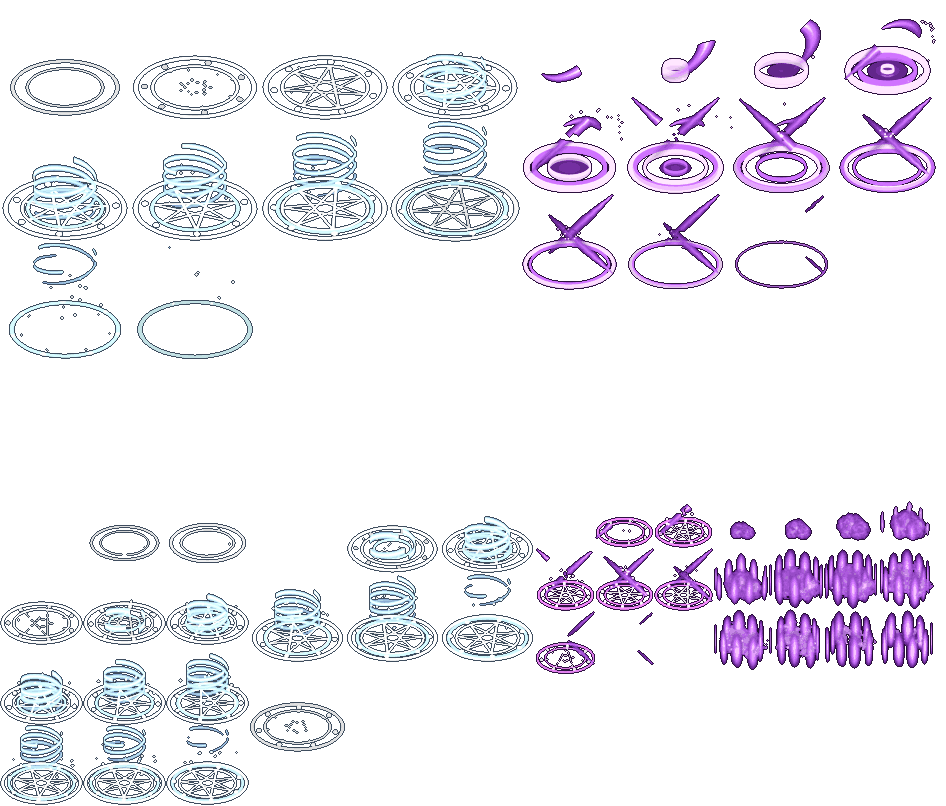
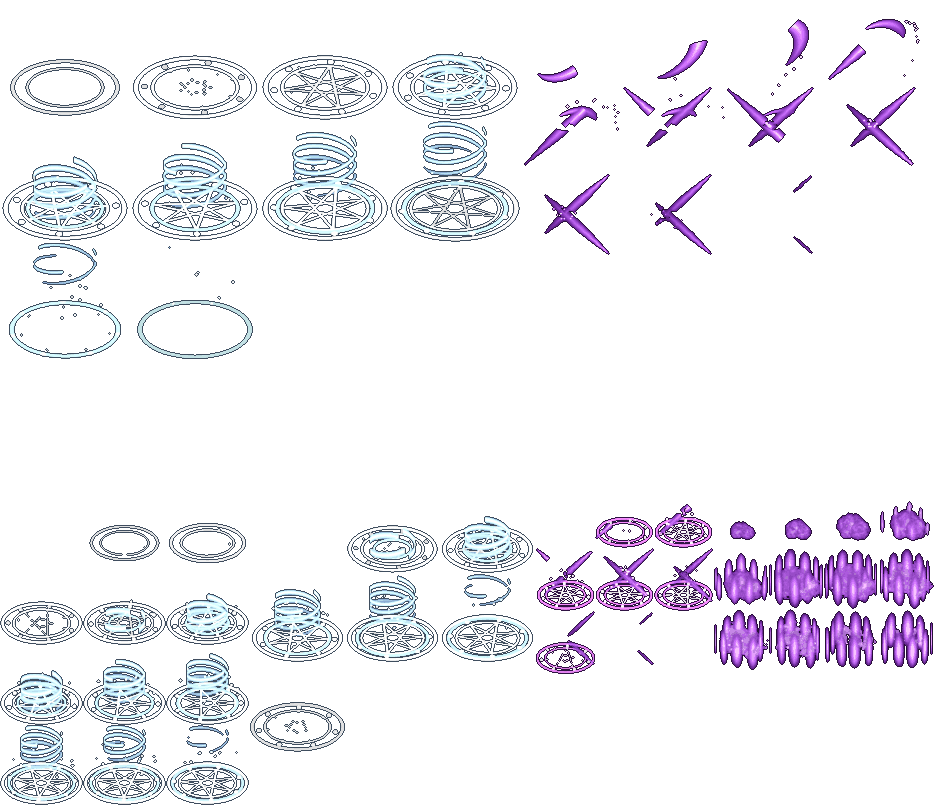
0.553.0: Cuts and marks, a toll that shakes each foe (#615)
* Blender effects: the prototype scenes and the smooth-against-pixelated samples

Claude-Session: https://claude.ai/code/session_01NDLKRsLZur627w2ZaVbFjf

* BLENDER-FX: the pipeline, and the king's 35 spells as Blender-rendered pixel sheets

The owner's call: every battle effect is to be a Blender-rendered, pixelated, fully animated frame sheet, so
everything matches; the lights (heals, holy, lightning) keep a soft glow under their pixels.

- tools/blender-fx: a library of 52 effect scenes in 13 element palettes, recipes (staged ones for long moves),
  render, pixelate (45 px a tile, 14 shared colours, hard alpha with a fixed dither, a quarter-size glow for the
  lights), pack (tight WebP atlases) and a generated manifest; npm run blender-fx makes everything again.
- The renderer plays the sheets through the effects' own paths (bfxOnce, bfxStand, bfxFly): on the tiles
  fxPlace names, thinned over fighters or laid on the ground under them, a held frame with reduced motion, no glow
  and fewer touches on the battery saver. The sim is untouched.
- Every king's spell has its own sheets, each leading with a scene no other spell leads with; they play in place
  of the older painted layers once loaded. 59 effects, 756 frames, 417 KB, listed for offline play.

Claude-Session: https://claude.ai/code/session_01RRJtWnKv3aqtC5Z8HqXpVz

* BLENDER-FX: the king's spells in real fights at 360x780 and 412x915, and with reduced motion
[…]

diff --git a/src/render/blenderFxData.ts b/src/render/blenderFxData.ts
@@ -7,7 +7,7 @@ import type { BfxClip } from './blenderFxRules';
 export const BFX_DENSITY = 45;
 export const BFX_GLOW_SHRINK = 4;
 /** The hard pixel atlases' sizes, then the soft glow atlases' (`px-<n>.webp`, `soft-<n>.webp`). */
-export const BFX_PX: readonly (readonly [number, number])[] = [[2041, 2045], [2030, 750], [1208, 1240], [1076, 1140], [938, 563], [990, 978], [364, 451], [946, 806], [1900, 1768], [1016, 691], [994, 778], [316, 280], [1016, 1019], [837, 717], [913, 1022], [923, 937], [1005, 700], [1176, 1280], [1164, 996], [873, 563], [1008, 1200], [1156, 1128], [979, 716], [1018, 822], [987, 641], [1023, 821], [919, 810], [874, 926], [277, 220], [754, 896], [991, 893], [983, 907], [919, 509], [817, 817], [918, 856], [980, 813], [802, 799], [842, 1009], [991, 950], [689, 569], [1065, 954], [881, 584], [976, 1003], [286, 217], [1023, 809], [605, 505], [987, 993], [286, 196], [977, 957], [781, 906], [451, 430], [781, 941], [802, 644], [1010, 846], [906, 993], [1076, 1048], [980, 738], [935, 994], [824, 496], [1328, 1540], [974, 954], [891, 782], [325, 274], [982, 895], [253, 220], [982, 936], [992, 776], [1280, 1100], [888, 926], [999, 809], [1020, 1011], [813, 223], [1018, 1022], [427, 136], [1024, 1018], [650, 226], [1016, 1015], [373, 145], [1019, 991], [443, 148], [1013, 1020], [358, 213], [1015, 1018], [357, 124], [1003, 1006], [960, 208], [1021, 1023], [424, 145], [1001, 1008], [650, 226], [136, 112]];
+export const BFX_PX: readonly (readonly [number, number])[] = [[2041, 2045], [2030, 750], [1208, 1240], [1076, 1140], [938, 563], [990, 978], [364, 451], [935, 806], [1900, 1768], [1016, 691], [994, 778], [316, 280], [1016, 1019], [837, 717], [913, 1022], [923, 937], [1005, 700], [1176, 1280], [1164, 996], [873, 563], [1008, 1200], [1156, 1128], [979, 716], [1018, 822], [987, 641], [1023, 821], [919, 810], [874, 926], [277, 220], [754, 896], [991, 893], [983, 907], [919, 509], [817, 817], [918, 856], [980, 813], [802, 799], [842, 1009], [991, 950], [689, 569], [1065, 954], [881, 584], [976, 1003], [286, 217], [1023, 809], [605, 505], [987, 993], [286, 196], [977, 957], [781, 906], [451, 430], [781, 941], [802, 644], [1010, 846], [906, 993], [1076, 1048], [980, 738], [935, 994], [824, 496], [1328, 1540], [974, 954], [891, 782], [325, 274], [982, 895], [253, 220], [982, 936], [992, 776], [1280, 1100], [888, 926], [999, 809], [1020, 1011], [813, 223], [1018, 1022], [427, 136], [1024, 1018], [650, 226], [1016, 1015], [373, 145], [1019, 991], [443, 148], [1013, 1020], [358, 213], [1015, 1018], [357, 124], [1003, 1006], [960, 208], [1021, 1023], [424, 145], [1001, 1008], [650, 226], [136, 112]];
 export const BFX_SOFT: readonly (readonly [number, number])[] = [[2045, 1439]];
 /** The pixel atlases every fight may need (the spells, the ground loops): loaded up front. The rest are loaded when a fight needs them. */
 export const BFX_CORE: readonly number[] = [0, 1];
@@ -349,7 +349,7 @@ export const BFX_CLIPS: Readonly<Record<string, BfxClip>> = {
   'ult-kraken-strike': {"a": 30, "x": 0, "y": 0, "w": 139, "h": 153, "n": 13, "cols": 4, "ax": 69.0, "ay": 117.7, "ms": 1300, "loop": false, "hold": 6, "layer": "over", "el": "water", "cuts": [[0, 8], [3, 12]], "sc": ["whirlpool", "geyser"], "at": "self"},
   'ult-kraken-windup': {"a": 30, "x": 0, "y": 613, "w": 91, "h": 93, "n": 12, "cols": 4, "ax": 45.5, "ay": 69.6, "ms": 1900, "loop": false, "hold": 11, "layer": "over", "el": "water", "cuts": [[0, 11], [4, 11]], "sc": ["whirlpool", "geyser"]},
   'ult-kunoichi-aftermath': {"a": 7, "x": 536, "y": 485, "w": 59, "h": 63, "n": 9, "cols": 3, "ax": 29.5, "ay": 48.0, "ms": 1600, "loop": false, "hold": 4, "layer": "over", "el": "shadow", "cuts": [[0, 7], [1, 8]], "sc": ["sigil", "cross"]},
-  'ult-kunoichi-strike': {"a": 7, "x": 521, "y": 0, "w": 106, "h": 97, "n": 13, "cols": 4, "ax": 48.5, "ay": 71.4, "ms": 1300, "loop": false, "hold": 5, "layer": "over", "el": "shadow", "cuts": [[0, 8], [3, 12], [1, 11]], "sc": ["arc", "cross", "ring"], "at": "each"},
+  'ult-kunoichi-strike': {"a": 7, "x": 521, "y": 0, "w": 102, "h": 87, "n": 13, "cols": 4, "ax": 44.5, "ay": 71.4, "ms": 1300, "loop": false, "hold": 6, "layer": "over", "el": "shadow", "cuts": [[0, 8], [3, 12]], "sc": ["arc", "cross"], "at": "each"},
   'ult-kunoichi-windup': {"a": 7, "x": 714, "y": 485, "w": 55, "h": 62, "n": 12, "cols": 4, "ax": 27.5, "ay": 51.6, "ms": 1700, "loop": false, "hold": 6, "layer": "over", "el": "shadow", "cuts": [[0, 11], [2, 11]], "sc": ["smoke", "veil"]},
   'ult-lancer-aftermath': {"a": 13, "x": 569, "y": 0, "w": 89, "h": 92, "n": 9, "cols": 3, "ax": 38.0, "ay": 67.4, "ms": 1500, "loop": false, "hold": 5, "layer": "over", "el": "wind", "cuts": [[0, 7], [1, 8]], "sc": ["trail", "gust"]},
   'ult-lancer-strike': {"a": 12, "x": 0, "y": 0, "w": 183, "h": 201, "n": 13, "cols": 4, "ax": 79.5, "ay": 127.9, "ms": 1300, "loop": false, "hold": 4, "layer": "over", "el": "wind", "cuts": [[0, 8], [3, 12], [1, 11]], "sc": ["trail", "gust", "sparks"]},

diff --git a/src/render/fx.ts b/src/render/fx.ts
@@ -77,7 +77,7 @@ import { AREA_PAINT, SNARE, type AreaPaint, AURA_ALPHA, AURA_ALPHA_OF, AURA_MOTE
 import { SLASH_HOP_MS, type WallKind } from '../sim/toolkit';
 import { loadSpellArt, spellFrames } from './spellArt';
 import { bfxFrames, bfxGlows, loadBlenderFx, warmBfx } from './blenderFxArt';
-import { BFX_FADE_MS, BFX_FLY_FROM, BFX_FLY_MS, BFX_GLOW_ALPHA, BFX_LINE_GLOW, BFX_GLOW_SCALE, BFX_SCALE, BFX_WALL_SPELL, SPELL_LAY, SPELL_STANDS, ULT_BFX, ZONE_BFX, bfxAlpha, bfxCentre, BEAT_OWN, ultPlace, ultSpots, ultLinked, ultLinkClip, ULT_LASTS, lineRun, ULT_LINK_MS, beatBfx, beatLine, BEAT_LINE, type BeatClip, ultBfx, type UltStageName, bfxBox, bfxBudget, bfxClip, bfxFrame, bfxLife, groundBfx, spellBfx, standPhase, type SpellPartName } from './blenderFxRules';
+import { BFX_FADE_MS, BFX_FLY_FROM, BFX_FLY_MS, BFX_GLOW_ALPHA, BFX_LINE_GLOW, BFX_GLOW_SCALE, BFX_SCALE, BFX_WALL_SPELL, SPELL_LAY, SPELL_STANDS, ULT_BFX, ZONE_BFX, bfxAlpha, bfxCentre, BEAT_OWN, ultPlace, ultSpots, ultLinked, ultLinkClip, ULT_LASTS, lineRun, ULT_EXTRA, ULT_EXTRA_AT, touchDelay, ULT_LINK_MS, beatBfx, beatLine, BEAT_LINE, type BeatClip, ultBfx, type UltStageName, bfxBox, bfxBudget, bfxClip, bfxFrame, bfxLife, groundBfx, spellBfx, standPhase, type SpellPartName } from './blenderFxRules';
 import { boostedScale, burstPart, epicEvent, KIT, ultScale, ULT_EPIC } from '../ultEpicRules';
 import { ultWeight } from '../ultStageRules';
 import { SHOWCASES } from '../ultShowRules';
@@ -388,6 +388,8 @@ export class Fx {
       void warmBfx([...kinds].flatMap((kind) => (['windup', 'strike', 'aftermath'] as UltStageName[]).map((stage) => ultBfx(kind, stage, ultWeight(kind)))));
       // (ULT-AUDIT: but the one small clip a healer's light or the Gorgon's gaze runs out in is: it must be there the first time)
       warmBfx([...kinds].filter((kind) => ultLinked(kind) && SHOWCASES[kind]).map((kind) => beatBfx(ultLinkClip(kind), SHOWCASES[kind].el)));
+      // (and the small clips a strike adds: a ring on each foe, foam down a line, spray where the caster lands)
+      warmBfx([...kinds].filter((kind) => ULT_EXTRA[kind] && SHOWCASES[kind]).flatMap((kind) => Object.values(ULT_EXTRA[kind]).map((clip) => beatBfx(clip, SHOWCASES[kind].el))));
       // (the beats of their showcases are not asked for here: each loads the first time it is played, the older parts playing that once,
       // so a fight begins with as little held as it can)
     }
@@ -726,6 +728,9 @@ export class Fx {
       if (place === 'self') {
         // (ULT-AUDIT: an aura, a ward, a transformation, a pull: it plays round the caster, once; its further bursts add nothing there)
         if (caster && size >= 1) this.bfxUlt(kind, 'strike', caster.x, caster.y);
+        // (and each foe it struck is shaken by a small ring as the strike's own ring reaches it: `ULT_EXTRA.touch`)
+        const touch = ULT_EXTRA[kind]?.touch;
+        if (touch && caster && size >= 1) for (const [x, y] of at) this.bfxBeat(touch, el, x, y, { delay: touchDelay(Math.hypot(x - caster.x, y - caster.y)) });
       } else if (place !== 'one') {
         // (ULT-AUDIT: a heal on each friend healed, a mark on each foe marked, a flurry's cut on each foe cut, a wall's slab on each tile
         // it blocks: a strike on every one the ability touched, not one great one in their midst. Where the ability is carried from the
@@ -734,7 +739,15 @@ export class Fx {
         const shown = at.slice(0, settings().saver ? ULT_BFX.SPOTS_SAVER : ULT_BFX.SPOTS);
         if (place === 'line' && caster && size >= 1) {
           // (a breath or a cut down a line runs out from the caster: the nearest spot first, each a little later and larger)
-          for (const r of lineRun(shown, caster.x, caster.y)) this.bfxUlt(kind, 'strike', shown[r.i][0], shown[r.i][1], undefined, r.size, r.delay);
+          const run = lineRun(shown, caster.x, caster.y);
+          // (`ULT_EXTRA`: foam along the ground down the whole line ahead of the strike, and a burst of spray where the caster lands)
+          const extra = ULT_EXTRA[kind];
+          if (extra?.wake && run.length) {
+            const a1 = shown[run[run.length - 1].i];
+            beatLine(caster.x, caster.y, a1[0], a1[1]).forEach(([px, py], i) => this.bfxBeat(extra.wake!, el, px, py, { delay: i * BEAT_LINE.LAG, mult: ULT_EXTRA_AT.WAKE_SIZE }));
+          }
+          if (extra?.land) this.bfxBeat(extra.land, el, caster.x, caster.y, { mult: ULT_EXTRA_AT.LAND_SIZE });
+          for (const r of run) this.bfxUlt(kind, 'strike', shown[r.i][0], shown[r.i][1], undefined, r.size, r.delay);
         } else for (const [x, y] of shown) {
           const far = linked && Math.hypot(x - caster.x, y - caster.y) > 8;
           if (far) beatLine(caster.x, caster.y, x, y).forEach(([px, py], i) => this.bfxBeat(ultLinkClip(kind), el, px, py, { delay: i * BEAT_LINE.LAG }));

diff --git a/test/ult-audit.test.ts b/test/ult-audit.test.ts
@@ -9,7 +9,7 @@ import '../src/sim/battle';
 import { AURA_MOTES } from '../src/render/movePaints';
 import { auraLook } from '../src/render/toolkitLooks';
 import { BFX_CLIPS } from '../src/render/blenderFxData';
-import { BEAT_OWN, ULT_LASTS, ULT_LINE, ULT_LINK_MS, beatBfx, lineRun, ultLinkClip, ultLinked, ultPlace, ultSpots } from '../src/render/blenderFxRules';
+import { BEAT_OWN, ULT_EXTRA, ULT_EXTRA_AT, ULT_LASTS, ULT_LINE, ULT_LINK_MS, beatBfx, lineRun, touchDelay, ultLinkClip, ultLinked, ultPlace, ultSpots } from '../src/render/blenderFxRules';
 import { SHOWCASES } from '../src/ultShowRules';
 
 test('Spirit Guardians shows its guardians: spirits a fighter tall circling the Cleric for as long as the aura lasts', () => {
@@ -129,7 +129,8 @@ test('Vael\'s totality lasts: a black sun hangs over him for its eight seconds, 
   assert.equal(ultPlace('seaReaver'), 'line');
   for (const c of Object.values(BFX_CLIPS)) for (const sc of c.sc ?? []) assert.ok(!['angel', 'wave'].includes(sc), sc);
   for (const kind of ['ilyra', 'seraph', 'samurai']) assert.ok(!BFX_CLIPS[`ult-${kind}-strike`].sc!.includes('dome'), kind);
-  assert.deepEqual(BFX_CLIPS['ult-kunoichi-strike'].sc, ['arc', 'cross', 'ring']);
+  // (one cut on each foe and nothing under it: a large ring lay under each cut and made her marks a mass; the director's order)
+  assert.deepEqual(BFX_CLIPS['ult-kunoichi-strike'].sc, ['arc', 'cross']);
   assert.ok(ULT_LINK_MS >= 100 && ULT_LINK_MS <= 400);
   // (what the abilities are: beasts bursting out where each is called, stone creeping over each foe, slabs along the wall's tiles, shields)
   assert.deepEqual(BFX_CLIPS['ult-beastmaster-strike'].sc, ['beast', 'trail']);
@@ -176,5 +177,21 @@ test('a strike along a line runs out from its caster: nearest first, each later 
   assert.equal(ultPlace('dragoon'), 'line');
   assert.equal(ultPlace('dreadPirate'), 'one');
   assert.deepEqual(BFX_CLIPS['ult-dreadPirate-strike'].sc, ['broadside', 'crack']);
-  assert.match(readFileSync('src/render/fx.ts', 'utf8'), /for \(const r of lineRun\(shown, caster\.x, caster\.y\)\)/);
+  assert.match(readFileSync('src/render/fx.ts', 'utf8'), /const run = lineRun\(shown, caster\.x, caster\.y\);/);
+});
+
+test('what a strike adds beyond its clip: a ring on each foe as the Bell Warden\'s toll reaches it, foam down the Sea Reaver\'s line and spray where he lands', () => {
+  assert.deepEqual(ULT_EXTRA.bellWarden, { touch: 'ring' });
+  assert.deepEqual(ULT_EXTRA.seaReaver, { wake: 'dust', land: 'puff' });
+  // (every clip named is one the pipeline has made, in the hero's element)
+  assert.ok(beatBfx('ring', 'dark') && beatBfx('dust', 'ice') && beatBfx('puff', 'ice'));
+  // (the ring reaches a nearer foe sooner: nothing at the caster, `TOUCH_MS` for each hundred px)
+  assert.equal(touchDelay(0), 0);
+  assert.equal(touchDelay(100), ULT_EXTRA_AT.TOUCH_MS);
+  assert.ok(touchDelay(60) < touchDelay(180));
+  assert.equal(touchDelay(-5), 0);
+  const fx = readFileSync('src/render/fx.ts', 'utf8');
+  assert.match(fx, /this\.bfxBeat\(touch, el, x, y, \{ delay: touchDelay\(/);
+  assert.match(fx, /this\.bfxBeat\(extra\.wake!, el, px, py,/);
+  assert.match(fx, /if \(extra\?\.land\) this\.bfxBeat\(extra\.land, el, caster\.x, caster\.y,/);
 });

diff --git a/src/render/blenderFxRules.ts b/src/render/blenderFxRules.ts
@@ -228,6 +228,20 @@ export function lineRun(at: readonly (readonly [number, number])[], cx: number, 
   return order.map(({ i }, n) => ({ i, delay: n * ULT_LINE.LAG, size: Math.min(ULT_LINE.MAX, ULT_LINE.FROM + n * ULT_LINE.GROW) }));
 }
 
+/** ULT-AUDIT: what a strike adds beyond its own clip, as small clips of the showcase's (`beat-*`) in its element:
+ *  - `touch`: on each foe struck by a strike that plays round its caster, as the strike's ring reaches it (`TOUCH_MS` for each
+ *    hundred px it stands from the caster): the Bell Warden's toll shakes each foe with a ring as the hoop of sound passes;
+ *  - `wake`: along the ground from the first spot of a line to its last, a row of them, ahead of the strike on each spot: the foam
+ *    of the Sea Reaver's tide surging down his line;
+ *  - `land`: on the caster as the strike begins, large: the spray where the Sea Reaver lands. */
+export const ULT_EXTRA: Readonly<Record<string, { touch?: BeatClip; wake?: BeatClip; land?: BeatClip }>> = {
+  bellWarden: { touch: 'ring' },
+  seaReaver: { wake: 'dust', land: 'puff' },
+};
+export const ULT_EXTRA_AT = { TOUCH_MS: 220, WAKE_SIZE: 1.5, LAND_SIZE: 1.7 } as const;
+/** When the ring reaches a foe `d` px from the caster (ms after the strike begins). */
+export const touchDelay = (d: number): number => Math.round((Math.max(0, d) / 100) * ULT_EXTRA_AT.TOUCH_MS);
+
 /** ULT-AUDIT: the kinds whose strike is carried to each spot by a line from the caster (a row of the showcase's `link` clips, the strike
  *  landing as the line arrives, `ULT_LINK_MS` later): a healer's light running out to each friend, the Gorgon's gaze to each foe. */
 export const ultLinked = (kind: string): boolean => ultPlace(kind) === 'friends' || kind === 'gorgon' || kind === 'gunslinger';

diff --git a/src/updates.ts b/src/updates.ts
@@ -27,6 +27,12 @@ export interface EarlierUpdates {
 /** Every release since 0.189.0, newest first. */
 export const UPDATES: readonly Update[] = [
   {
+    version: '0.553.0',
+    date: '2026-11-12',
+    title: 'Cuts and marks, a toll that shakes each foe',
+    notes: ['The Kunoichi\'s death marks are seen at last: three cuts with a small sigil under each, no large ring hiding them.', 'The Bell Warden\'s toll shakes each foe with a small ring as its hoop reaches them, the nearer foe first.', 'The Sea Reaver\'s foam runs along the ground down his line and spray bursts where he lands.'],
+  },
+  {
     version: '0.552.0',
     date: '2026-11-12',
     title: 'Meteors, a column of light, a tide',

diff --git a/tools/blender-fx/effects.py b/tools/blender-fx/effects.py
@@ -240,7 +240,7 @@ PLACE = dict(
 # constellation leaves, the halo a nova's healing lands as).
 THIRD = dict(bellWarden='gust', cleric='ring', timeWitch='ring', astrax='sigil', banneret='flames',              seaReaver='ring', minotaur='trail', shambler='geyser', rifleBot='spiral', demonSwordsman='spiral', werewolf='flare', corsairSurgeon='ring',
              wolfBard='ring', warDrummer='shockwave', lancer='sparks',
-             vael='eclipse', kunoichi='ring', barbarian='gust', bloodGargoyle='crack', siegeBot='smoke', wizard='smoke', astrologer='sigil', seraph='ring')
+             vael='eclipse', barbarian='gust', bloodGargoyle='crack', siegeBot='smoke', wizard='smoke', astrologer='sigil', seraph='ring')
 # ULT-AUDIT: every hero's wind-up is the ability itself beginning, in place of a circle and a pillar by its weight: the Cleric's wisps
 # rise inside the ring the spirits will keep, the Lightning Mage's cloud gathers, the Knight plants a slab and a dome closes, the Kraken's
 # whirlpool turns. No two heroes have the same scenes in the same order, whatever their colours.

diff --git a/docs/notes/ult-audit.md b/docs/notes/ult-audit.md
@@ -677,6 +677,25 @@ director passed; they are small, and are not changed here.)
   so the wings are not lost among them. In the photograph: wide gold rings over the allies with a fan of feathers above them.
   A painted figure has its prompt in `docs/notes/ilyra-art-prompts.md`.
 
+### Three made to show: the toll's strike, the tide, the Kunoichi's marks
+
+`docs/samples/blender-fx/audit-later-4-393.jpg` (rows: the Bell Warden and the Sea Reaver from the blow on, the Kunoichi as her
+strike ends; four moments each, the screen's flash off). A strike can add small clips of its showcase's beyond its own
+(`ULT_EXTRA` in `blenderFxRules.ts`, a pure rule with a test): a `touch` on each foe struck as the strike's ring reaches it, a
+`wake` along the ground down a line, a `land` on the caster.
+
+- **The Bell Warden**: each foe his toll strikes is shaken by a small ring as the hoop of sound reaches it (sooner for a nearer
+  foe: `touchDelay`). In the photograph's first moment: wide purple hoops on the ground round him, the cracks standing up through
+  them, and small rings on the foes inside. (My earlier "one small hoop" was a frame too early.)
+- **The Sea Reaver**: foam runs along the ground from him down the whole line ahead of the strike on each spot, and a puff of
+  spray bursts where he lands. In the photograph's first moment: a pale cloud of spray where he lands and a streak of foam and
+  dust running from it to the foe he strikes. Honest: one moment only; it is quick, and the line in this fight was two tiles.
+- **The Kunoichi**: the large ring that lay under each of her cuts is gone (her strike is the crescent and the crossed cut
+  alone), so the small marks are seen. In the photograph's first moment: three purple cuts with a small sigil under each.
+
+The photographer has `TRACE=1` now (each stage's clip as it is asked for: where, and whether its frames were held); it showed
+the Kunoichi's marks were drawn all along and hidden under the rings.
+
 ## The audit of all 70
 
 `docs/samples/blender-fx/audit-all-1.jpg` to `-7.jpg`: all 70 ultimates, ten heroes a sheet in the table's order, each fired by hand in
